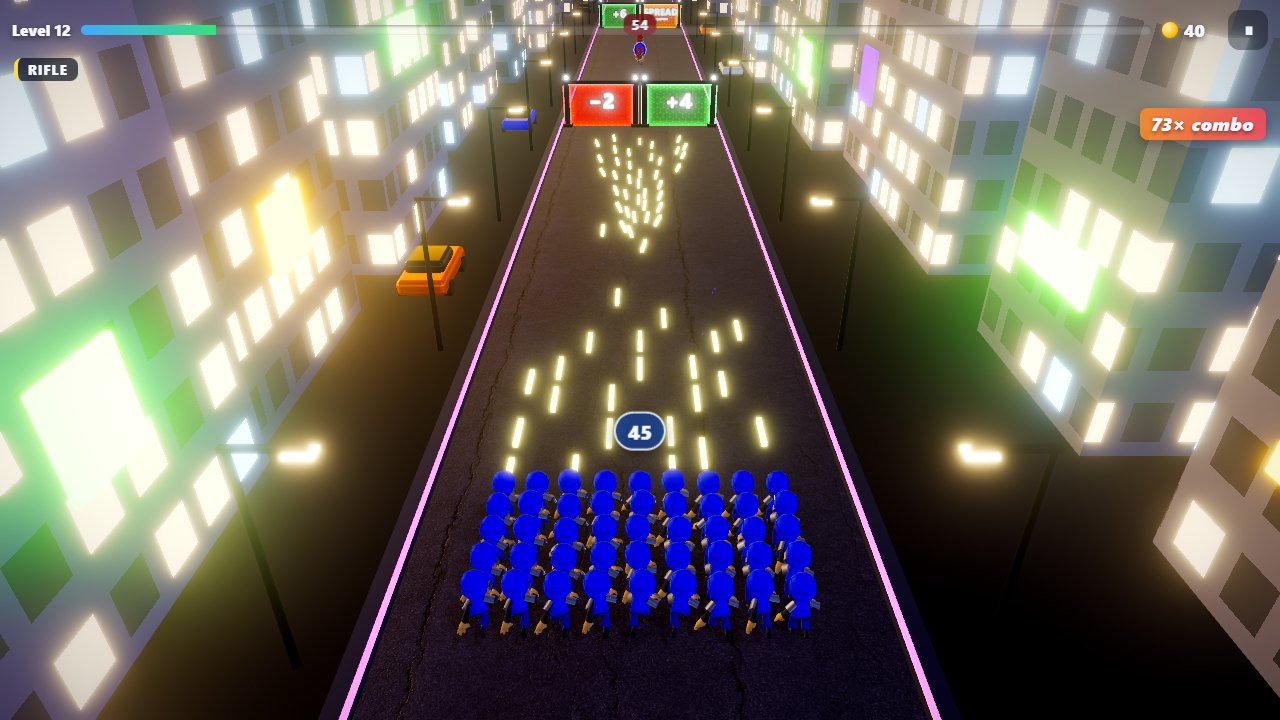
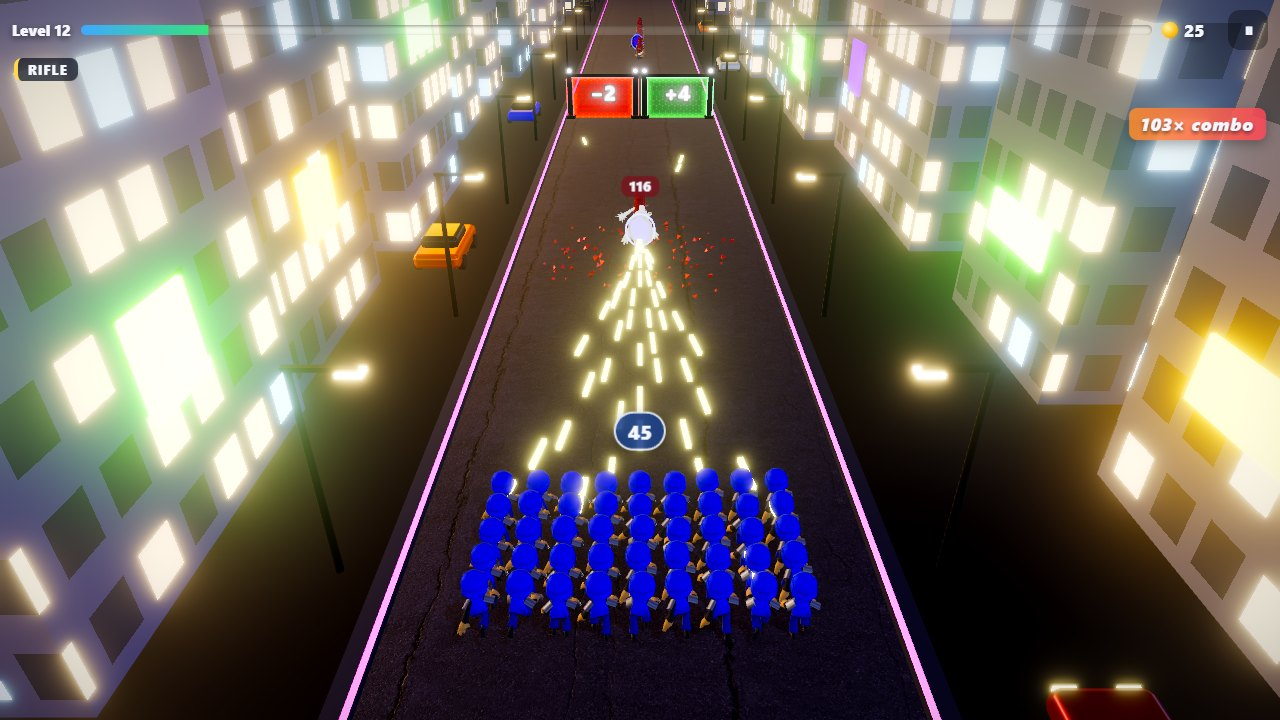
feat(balance): real partial losses and a smooth difficulty curve
Runners now wound instead of trading one for one, squads fire with a rally
bonus, bad gates never take the last soldier and the first gate always offers
soldiers. The tuner aims for a rising loss share of the average bot, scans from
the top instead of bisecting, ignores wall losses and keeps slack for finales.
Level 1 now has about twice as many enemies and the campaign has no outliers.

diff --git a/tools/balance/tune.ts b/tools/balance/tune.ts
@@ -3,7 +3,8 @@
  *
  * Phase 1: for every level, binary-search the highest wave difficulty at which three competent
  * bot variants all win while keeping a target share of their squad, and an average bot (who
- * commits to gates early and ignores gate shooting) still wins too.
+ * commits to gates early and ignores gate shooting) wins without losing more than a target share
+ * of its soldiers. That share rises level by level and is what makes the campaign feel harder.
  * Phase 2: for boss and mini-boss levels, search the boss HP so the fight lasts about a target
  * duration while all variants still win.
  *
@@ -26,12 +27,20 @@ const argNumber = (name: string, fallback: number) => {
 const from = argNumber('from', 1);
 const to = argNumber('to', CAMPAIGN_LENGTH);
 
+/** Wave strength of boss and mini-boss levels relative to what the waves alone would allow. */
+const FINALE_WAVE_SHARE = 0.85;
+
 /** Three competent players with different reaction distances; all of them must pass. */
 const VARIANTS = [12, 18, 26];
 
 /** Share of the peak squad a competent player should still have at the end. Lower = harder. */
 function targetSurvival(level: number): number {
   return 0.7 - ((level - 1) / (CAMPAIGN_LENGTH - 1)) * 0.35;
+}
+
+/** Share of all its soldiers the average bot may lose in a level. Higher = harder. */
+function targetLossShare(level: number): number {
+  return 0.25 + ((level - 1) / (CAMPAIGN_LENGTH - 1)) * 0.3;
 }
 
 /** Seconds from boss spawn (including its approach) to its defeat. */
@@ -59,26 +68,33 @@ function averageWins(level: number, difficulty: number, bossHp?: number): boolea
   return playLevel(campaignLevel(level, difficulty, bossHp), modifiersFor(level), 'average').status === 'won';
 }
 
-function tuneDifficulty(level: number, bossHp: number | undefined): number {
+/** Share of its soldiers the average bot loses to enemies; a lost level counts as everything. */
+function averageLossShare(level: number, difficulty: number, bossHp?: number): number {
+  const run = playLevel(campaignLevel(level, difficulty, bossHp), modifiersFor(level), 'average');
+  if (run.status !== 'won') return 1;
+  // Walls take a fixed slice of a wide squad at any difficulty, so they say nothing about waves.
+  const lost = Object.entries(run.losses).reduce((sum, [cause, n]) => sum + (cause === 'barrier' ? 0 : n), 0);
+  return lost / Math.max(1, lost + run.units);
+}
+
+function tuneDifficulty(level: number, bossHp: number | undefined, share = 1): number {
   const good = (d: number) => evaluate(level, d, bossHp).survival >= targetSurvival(level);
-  let lo = 0.03;
-  // Early levels stay gentle even when competent bots could take more: newcomers play them.
-  let hi = Math.min(1.2, 0.3 + level * 0.018);
-  const requireAverage = averageWins(level, lo, bossHp);
-  if (!requireAverage) console.warn(`level ${level}: average bot cannot win even at difficulty ${lo}`);
-  const passes = (d: number) => good(d) && (!requireAverage || averageWins(level, d, bossHp));
-  if (!passes(lo)) console.warn(`level ${level}: not winnable even at difficulty ${lo}`);
-  for (let i = 0; i < 10; i++) {
-    const mid = (lo + hi) / 2;
-    if (passes(mid)) lo = mid;
-    else hi = mid;
+  const lo = 0.03;
+  const hi = 1.2;
+  // More waves mean more shots at gates, so a slightly harder level can be easier to win.
+  const requireAverage = [lo, 0.1, 0.2, 0.3].some((d) => averageWins(level, d, bossHp));
+  if (!requireAverage) console.warn(`level ${level}: average bot cannot win`);
+  const passes = (d: number) =>
+    good(d) && (!requireAverage || averageLossShare(level, d, bossHp) <= targetLossShare(level));
+  // Outcomes are not monotonic, so a bisection can fall into a pocket: walk down from the top
+  // and take the first value that passes together with a margin below it.
+  for (let d = hi; d >= lo; d -= 0.02) {
+    const value = Number(d.toFixed(3));
+    const final = Number((value * share).toFixed(3));
+    if (passes(value) && passes(value * 0.92) && passes(final)) return final;
   }
-  // Outcomes are not perfectly monotonic: step down until the value and a margin below pass.
-  for (const factor of [0.92, 0.85, 0.78, 0.7, 0.6, 0.5, 0.4, 0.3]) {
-    const value = Number((lo * factor).toFixed(3));
-    if (passes(value) && passes(value * 0.9)) return value;
-  }
-  return Number((lo * 0.3).toFixed(3));
+  console.warn(`level ${level}: not winnable even at difficulty ${lo}`);
+  return lo;
 }
 
 function tuneBoss(level: number, difficulty: number): number {
@@ -108,14 +124,10 @@ const difficulty = [...CAMPAIGN_DIFFICULTY];
 const bossHp: Record<number, number> = { ...CAMPAIGN_BOSS_HP };
 for (let level = from; level <= to; level++) {
   const isFinale = level % 10 === 0 || level % 10 === 5;
-  // Waves first against a weak provisional boss (independent of earlier tuning runs), then the
-  // boss, then waves again with that boss, then the boss once more for the final wave strength.
-  let d = tuneDifficulty(level, isFinale ? 1 : undefined);
-  if (isFinale) {
-    bossHp[level] = tuneBoss(level, d);
-    d = tuneDifficulty(level, bossHp[level]);
-    bossHp[level] = tuneBoss(level, d);
-  }
+  // Waves first against a weak provisional boss, independent of earlier tuning runs. Finales then
+  // keep some slack in the waves: the fight is the point of the level, not what comes before it.
+  const d = tuneDifficulty(level, isFinale ? 1 : undefined, isFinale ? FINALE_WAVE_SHARE : 1);
+  if (isFinale) bossHp[level] = tuneBoss(level, d);
   difficulty[level - 1] = d;
   const check = evaluate(level, d, isFinale ? bossHp[level] : undefined);
   console.info(

diff --git a/apps/game/src/data/levels/tuning.ts b/apps/game/src/data/levels/tuning.ts
@@ -1,44 +1,44 @@
 // Generated by tools/balance/tune.ts. Do not edit by hand; rerun the tuner instead.
 /** Wave/boss difficulty per campaign level (index 0 = level 1). */
 export const CAMPAIGN_DIFFICULTY: readonly number[] = [
-  0.292, // level 1
-  0.309, // level 2
-  0.325, // level 3
-  0.085, // level 4
-  0.239, // level 5
-  0.111, // level 6
-  0.392, // level 7
-  0.326, // level 8
-  0.288, // level 9
-  0.33, // level 10
-  0.311, // level 11
-  0.279, // level 12
-  0.439, // level 13
-  0.44, // level 14
-  0.346, // level 15
-  0.332, // level 16
-  0.341, // level 17
-  0.326, // level 18
-  0.367, // level 19
-  0.151, // level 20
-  0.325, // level 21
-  0.329, // level 22
-  0.323, // level 23
-  0.314, // level 24
-  0.336, // level 25
-  0.314, // level 26
-  0.335, // level 27
-  0.283, // level 28
-  0.279, // level 29
-  0.201, // level 30
+  0.94, // level 1
+  0.78, // level 2
+  1.08, // level 3
+  0.76, // level 4
+  0.476, // level 5
+  0.44, // level 6
+  0.76, // level 7
+  0.6, // level 8
+  0.6, // level 9
+  0.51, // level 10
+  0.46, // level 11
+  0.66, // level 12
+  0.4, // level 13
+  0.54, // level 14
+  0.408, // level 15
+  0.56, // level 16
+  0.48, // level 17
+  0.6, // level 18
+  0.78, // level 19
+  0.306, // level 20
+  0.4, // level 21
+  0.44, // level 22
+  0.4, // level 23
+  0.28, // level 24
+  0.357, // level 25
+  0.6, // level 26
+  0.46, // level 27
+  0.3, // level 28
+  0.36, // level 29
+  0.238, // level 30
 ];
 
 /** Boss / mini-boss HP multipliers per campaign level number. */
 export const CAMPAIGN_BOSS_HP: Readonly<Record<number, number>> = {
-  5: 21.516,
-  10: 5.674,
-  15: 51.052,
-  20: 90.53,
-  25: 144.842,
-  30: 17.983,
+  5: 24.199,
+  10: 4.332,
+  15: 37.39,
+  20: 100.905,
+  25: 126.988,
+  30: 17.182,
 };

diff --git a/apps/game/src/data/levels/generator.ts b/apps/game/src/data/levels/generator.ts
@@ -47,6 +47,8 @@ const INTRO = 34;
 /** Seconds of effective fire a wave is exposed to on its way to the squad. */
 const EXPOSURE = 4.2;
 const MAX_RUNNERS = 150;
+/** Last wave index that features the enemy kind a level introduces. */
+const SPOTLIGHT_BEATS = 2;
 /** Smallest crowd of a wave never grows beyond this, however large the squad gets. */
 const MAX_HORDE_FLOOR = 60;
 /** Runners keep at least this share of their base HP (half = one rifle shot). */
@@ -141,7 +143,8 @@ function chooseGates(rng: Rng, params: GeneratorParams, plan: Plan, beat: number
     const feature = weaponFeature(w);
     return feature !== null && f.has(feature);
   });
-  if (weapons.length > 0) {
+  // The first gate must offer soldiers on both sides: the first wave is sized for a grown squad.
+  if (weapons.length > 0 && beat > 0) {
     const spotlightWeapon =
       params.spotlight && weapons.includes(params.spotlight as WeaponId)
         ? (params.spotlight as WeaponId)
@@ -187,7 +190,8 @@ function buildWave(rng: Rng, params: GeneratorParams, budget: number, plan: Plan
   let remaining = budget;
   for (const special of specials) {
     if (!f.has(special.feature)) continue;
-    const spotlight = params.spotlight === special.feature;
+    // A new kind leads the first waves of its level; after that it mixes in like any other.
+    const spotlight = params.spotlight === special.feature && beat <= SPOTLIGHT_BEATS;
     // The first wave of a level never introduces a kind: the squad is still tiny there.
     if (beat === 0 && !(spotlight && plan.units >= 6)) continue;
     if (!spotlight && !rng.chance(0.45)) continue;

diff --git a/apps/game/src/sim/simulation.ts b/apps/game/src/sim/simulation.ts
@@ -90,6 +90,7 @@ export class Simulation {
   private shotAccumulator = 0;
   private shooterCursor = 0;
   private coinBank = 0;
+  private crushBank = 0;
   /** Position of the last thing in the level; the run ends when it is dealt with. */
   private readonly endDistance: number;
   private readonly grid = new SpatialGrid(2);
@@ -203,7 +204,8 @@ export class Simulation {
     const shooters = Math.min(this.units, BALANCE.squad.shooterCap);
     // Units beyond the shooter cap still contribute damage through the scale factor.
     const damageScale = this.units / shooters;
-    this.shotAccumulator += shooters * this.fireRate * dt;
+    const volley = Math.min(this.units + BALANCE.squad.rallyShooters, BALANCE.squad.shooterCap);
+    this.shotAccumulator += volley * this.fireRate * dt;
     if (this.shotAccumulator >= 1) this.collectAimCandidates();
     const stride = shooterStride(shooters);
     while (this.shotAccumulator >= 1) {
@@ -589,7 +591,11 @@ export class Simulation {
         enemy.z - enemy.radius <= back &&
         this.squadContains(enemy.x, enemy.radius)
       ) {
-        this.loseUnits(enemy.crush, enemy.x, enemy.z, enemy.kind);
+        // Weak enemies only wound: a soldier falls once their contact damage adds up.
+        this.crushBank += enemy.crush;
+        const lost = Math.floor(this.crushBank);
+        this.crushBank -= lost;
+        if (lost > 0) this.loseUnits(lost, enemy.x, enemy.z, enemy.kind);
         this.killEnemy(enemy, true);
         continue;
       }

diff --git a/apps/game/src/sim/mechanics.test.ts b/apps/game/src/sim/mechanics.test.ts
@@ -32,6 +32,29 @@ describe('enemy mechanics', () => {
     expect(events.some((e) => e.type === 'unitsLost')).toBe(true);
   });
 
+  it('runners wound the squad instead of trading one for one', () => {
+    const sim = new Simulation(
+      level([{ type: 'wave', at: 40, groups: [{ kind: 'runner', count: 10, hpScale: 1000 }] }]),
+      units(40),
+    );
+    const events = run(sim, 8);
+    const lost = events.reduce((sum, e) => sum + (e.type === 'unitsLost' ? e.count : 0), 0);
+    expect(lost).toBeGreaterThan(0);
+    expect(lost).toBeLessThanOrEqual(4);
+  });
+
+  it('tiny squads fire faster per soldier than big ones', () => {
+    const shotsPerSoldier = (count: number) => {
+      const sim = new Simulation(
+        level([{ type: 'wave', at: 40, groups: [{ kind: 'tank', count: 1, hpScale: 1000 }] }]),
+        units(count),
+      );
+      const events = run(sim, 4);
+      return events.filter((e) => e.type === 'shot').length / count;
+    };
+    expect(shotsPerSoldier(3)).toBeGreaterThan(shotsPerSoldier(12) * 1.3);
+  });
+
   it('splitters break into runners when shot', () => {
     const sim = new Simulation(
       level([{ type: 'wave', at: 50, groups: [{ kind: 'splitter', count: 1 }] }]),

diff --git a/apps/game/src/sim/balance.ts b/apps/game/src/sim/balance.ts
@@ -8,6 +8,8 @@ export const BALANCE = {
     visibleCap: 160,
     /** Maximum number of units that emit projectiles; damage is scaled up for the rest. */
     shooterCap: 48,
+    /** Extra shots a squad fires as if it had this many more soldiers; keeps tiny squads alive. */
+    rallyShooters: 3,
     maxUnits: 9999,
     baseDamage: 10,
     /** Shots per second per unit. */
@@ -122,8 +124,8 @@ export const ENEMIES: Record<EnemyKind, EnemyDef> = {
     radius: 0.42,
     speed: 3,
     homing: 0.9,
-    crush: 1,
-    coins: 0.5,
+    crush: 0.4,
+    coins: 0.25,
     holdDistance: null,
     fireInterval: 0,
   },

diff --git a/apps/game/src/sim/gates.ts b/apps/game/src/sim/gates.ts
@@ -136,7 +136,9 @@ export function resolveGatePass(target: GateTarget, squadX: number, gates: reado
     }
     passes.push({ gate, passed, result });
   });
-  next.units = Math.min(BALANCE.squad.maxUnits, remaining + passes.reduce((sum, p) => sum + p.result, 0));
+  const total = remaining + passes.reduce((sum, p) => sum + p.result, 0);
+  // A bad gate hurts, but only enemies end a run.
+  next.units = Math.min(BALANCE.squad.maxUnits, Math.max(Math.min(1, target.units), total));
   return { next, passes };
 }
 

diff --git a/apps/game/src/sim/gates.test.ts b/apps/game/src/sim/gates.test.ts
@@ -51,6 +51,12 @@ describe('gate passage', () => {
     expect(next.units).toBe(10);
   });
 
+  it('a bad gate never takes the last soldier', () => {
+    const gate = makeGate('units', -50);
+    const { next } = resolveGatePass({ ...base, units: 4 }, 0, [gate]);
+    expect(next.units).toBe(1);
+  });
+
   it('leaves soldiers untouched when nobody reaches a gate', () => {
     const { next, passes } = resolveGatePass({ ...base, units: 1 }, 0, [left, right]);
     expect(passes).toHaveLength(0);

diff --git a/docs/PLAN.md b/docs/PLAN.md
@@ -46,6 +46,9 @@ Abweichungen vom ursprünglichen Plan, mit Begründung. Wo dieser Abschnitt und 
 | 2026-10-30 | M8 | Combo-Zähler im HUD und beste Combo im Ergebnis; Zeitlupe am Levelende (auch beim Boss-Kill) | Juice-Feinschliff aus dem M8-Plan |
 | 2026-10-30 | M8 | `.gitignore`-Regel für `data/` auf den Projektstamm verankert | Die Regel blendete auch `apps/game/src/data/` aus; die Level-Daten wurden nachträglich committet |
 | 2026-10-30 | Polish | **Animierte CC0-Figuren** (Quaternius) für Trupp, Läufer und Schützen; Animationen werden in eine Knochen-Textur gebacken und per GPU instanziert; ersetzt die prozeduralen Soldaten aus M5. Panzer, Splitter, Schildträger und Bosse bleiben prozedural | Spieltest: Grafik brauchte mehr Liebe; die Waffen sind jetzt sichtbar in der Hand |
+| 2026-10-30 | Polish | **Alle Gegner sind animierte CC0-Figuren**: Yeti (Panzer), Stachel-Blob (Splitter), Ork mit Energieschild (Schildträger), Blauer Dämon (Miniboss), Drache (Boss) | Die prozeduralen Modelle fielen neben den neuen Figuren auf |
+| 2026-10-30 | Balancing | **Weicher Gegnerkontakt und Sammelfeuer**: Ein Läufer verwundet nur (0,4 Soldaten pro Kontakt), jeder Trupp feuert wie mit drei Soldaten mehr, rote Tore nehmen nie den letzten Soldaten, das erste Tor bietet immer Soldaten | Vorher gab es nur "keine Verluste" oder "sofort ausgelöscht"; so entstehen echte Teilverluste |
+| 2026-10-30 | Balancing | **Tuner steuert auf eine Verlustquote**: Der Durchschnitts-Bot darf durch Gegner 25 % (Level 1) bis 55 % (Level 30) seiner Soldaten verlieren. Abwärtssuche statt Bisektion, Wandverluste zählen nicht, Finale behalten 15 % Reserve für den Bosskampf | Die alte Kurve hatte Ausreißer (Level 4, 6, 20) und Level 1 keinen Druck. Level 1 hat jetzt etwa doppelt so viele Gegner |
 | 2026-10-30 | Polish | **Horden ab Level 1**: Wellen wachsen mit der Truppe, Mindestgröße folgt der Schwierigkeit, kürzere Waffenreichweite; Tore wirken nur auf durchlaufende Soldaten; Truppe schießt nur bei Ziel; Level endet direkt nach dem letzten Hindernis | Spieltest: zu wenige Gegner, Leerlauf am Levelende, Dauerfeuer ins Leere |
 | 2026-10-30 | Polish | **Sichere Render-Stufe**: Test auf Float-Render-Targets, Erkennung von Kontextverlust, Shader-Fehlern und leeren Bildern, automatischer Rückfall; GPU-Daten in der Debug-Datei | Firefox auf Android zeigte nur das HUD; die Ursache auf dem Gerät ist noch nicht bestätigt |
 | 2026-10-30 | Polish | **Soundeffekte und Musik sind jetzt echte CC0-Aufnahmen** statt Synthese (Kenney, OpenGameArt), dazu vier umschaltbare Musikstile; ersetzt den M7-Eintrag zur Synthese | Die synthetisierten Klänge wirkten im Spieltest zu plastisch |
@@ -355,7 +358,7 @@ Diese Punkte habe ich festgelegt; sie lassen sich jederzeit ändern:
 
 ## 7. Stand 1.0 und offene Punkte
 
-Alle Meilensteine M0 bis M8 sind umgesetzt und im lokalen Git-Repository (`master`, Tag `v1.0.0`) committet. `npm run check` (Lint, Typprüfung, Tests, Build) ist grün; die Bots gewinnen mit erwarteter Ausrüstung: gut 30/30, durchschnittlich 30/30, schwach 18/30.
+Alle Meilensteine M0 bis M8 sind umgesetzt und im lokalen Git-Repository (`master`, Tag `v1.0.0`) committet. `npm run check` (Lint, Typprüfung, Tests, Build) ist grün; die Bots gewinnen mit erwarteter Ausrüstung: gut 30/30, durchschnittlich 30/30, schwach (Tore zufällig) 13/30; mit Shop-Upgrades schaffen alle drei die ganze Kampagne.
 
 Diese Punkte brauchen Menschen oder echte Geräte und sind daher offen:
 - **Playtest** mit mehreren Personen, besonders Schwierigkeit ab Welt 2 und die Boss-Level 20 und 30.
